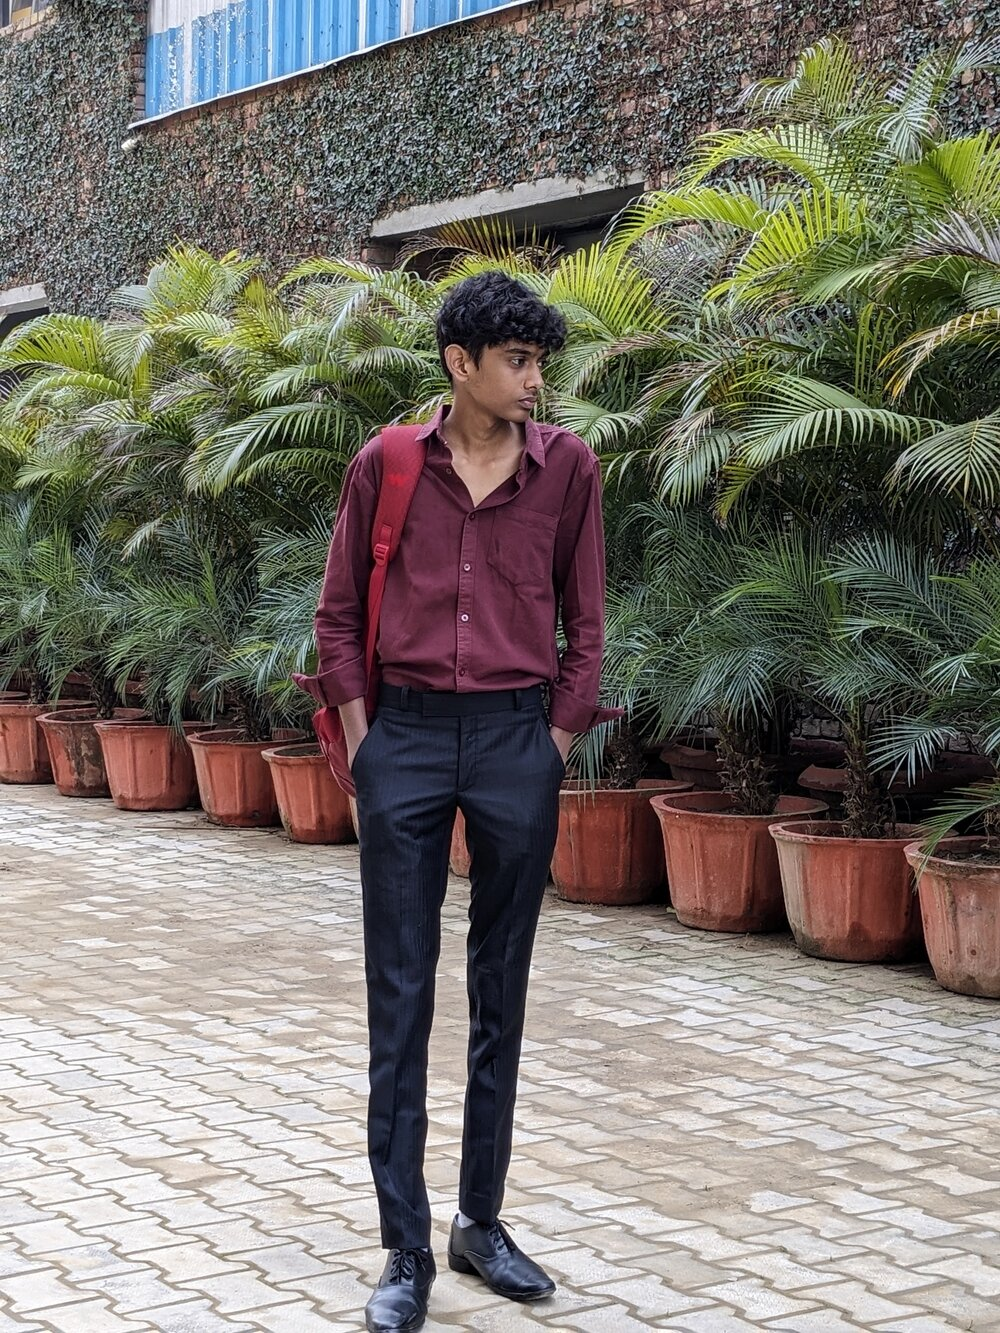
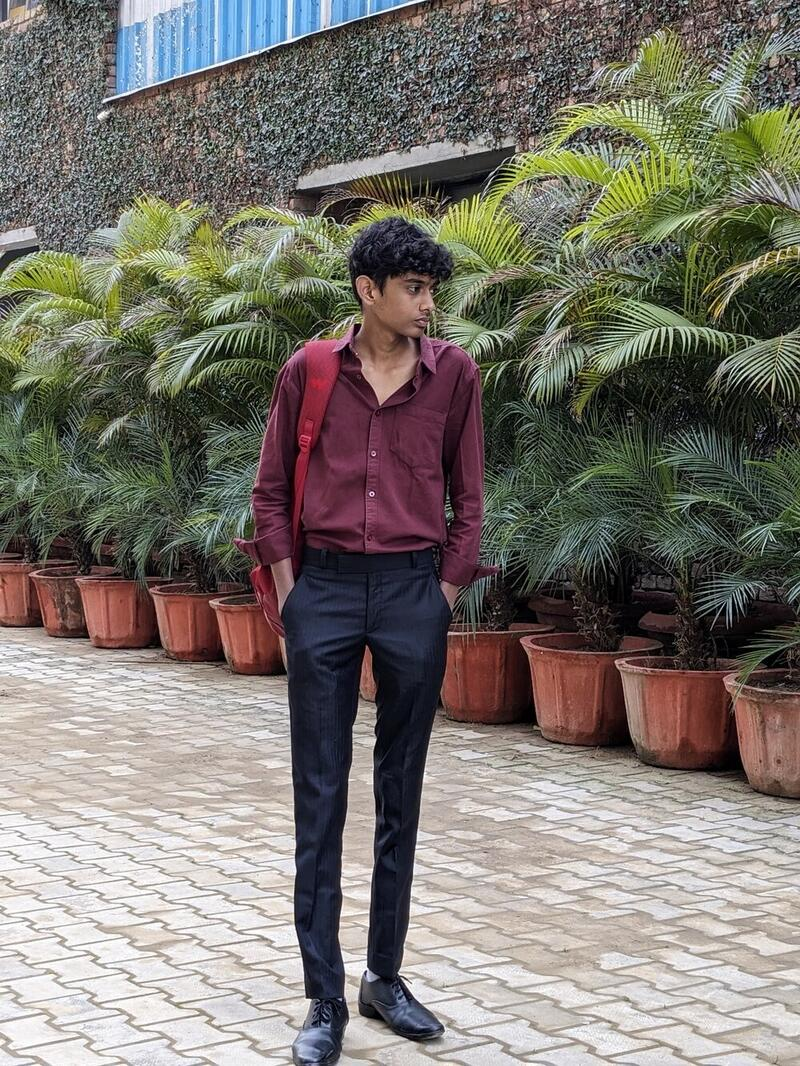
Add back PR 29533, adjust fonts/nav, clean image spacing

diff --git a/app/page.js b/app/page.js
@@ -108,6 +108,15 @@ const contributions = [
     description:
       "Fixed conflicting LLVM memory attributes that could crash Clang, with regression tests."
   },
+  {
+    title: "videoio: fix build with FFmpeg 9 after AVCodec::pix_fms removal",
+    repo: "opencv/opencv",
+    prUrl: "https://github.com/opencv/opencv/pull/29533",
+    number: 29533,
+    status: "Closed",
+    description:
+      "Replaced direct AVCodec::pix_fms access with avcodec_get_supported_config() for FFmpeg 9 compatibility."
+  },
 ];
 
 export default function Home() {
@@ -198,7 +207,6 @@ export default function Home() {
           </div>
 
           <div className="relative rounded-[2.2rem] border border-black/10 bg-[linear-gradient(180deg,rgba(255,255,255,0.92),rgba(246,242,236,0.7))] p-4 shadow-[0_18px_46px_rgba(35,25,15,0.08)]">
-            <div className="pointer-events-none absolute inset-3 rounded-[1.7rem] border border-white/80" />
             <div
               className="relative min-h-[420px] overflow-hidden rounded-[1.7rem] bg-cover bg-[center_18%]"
               style={{ backgroundImage: "url('/profile.jpg')" }}
@@ -294,7 +302,7 @@ export default function Home() {
                 <span>{contribution.repo}</span>
                 <span>{contribution.status}</span>
               </div>
-              <h3 className="mt-4 text-2xl font-semibold text-ink">{contribution.title}</h3>
+              <h3 className="mt-4 text-3xl font-semibold text-ink">{contribution.title}</h3>
               <p className="mt-4 leading-8 text-mist">{contribution.description}</p>
               <div className="mt-6">
                 <a

diff --git a/app/components/menu-toggle.js b/app/components/menu-toggle.js
@@ -12,7 +12,7 @@ const links = [
 ];
 
 export default function MenuToggle() {
-  const [open, setOpen] = useState(false);
+  const [open, setOpen] = useState(true);
   const rootRef = useRef(null);
   const pathname = usePathname();
 
@@ -63,7 +63,10 @@ export default function MenuToggle() {
             : "invisible w-0 px-0 py-3 opacity-0"
         }`}
       >
-        <nav className="flex min-w-max items-center gap-6 whitespace-nowrap text-sm text-mist">
+        <nav
+          className="flex min-w-max items-center gap-6 whitespace-nowrap text-sm text-mist"
+          onClick={() => setOpen(false)}
+        >
           {links.map((link, index) => (
             <Link
               key={link.href}
